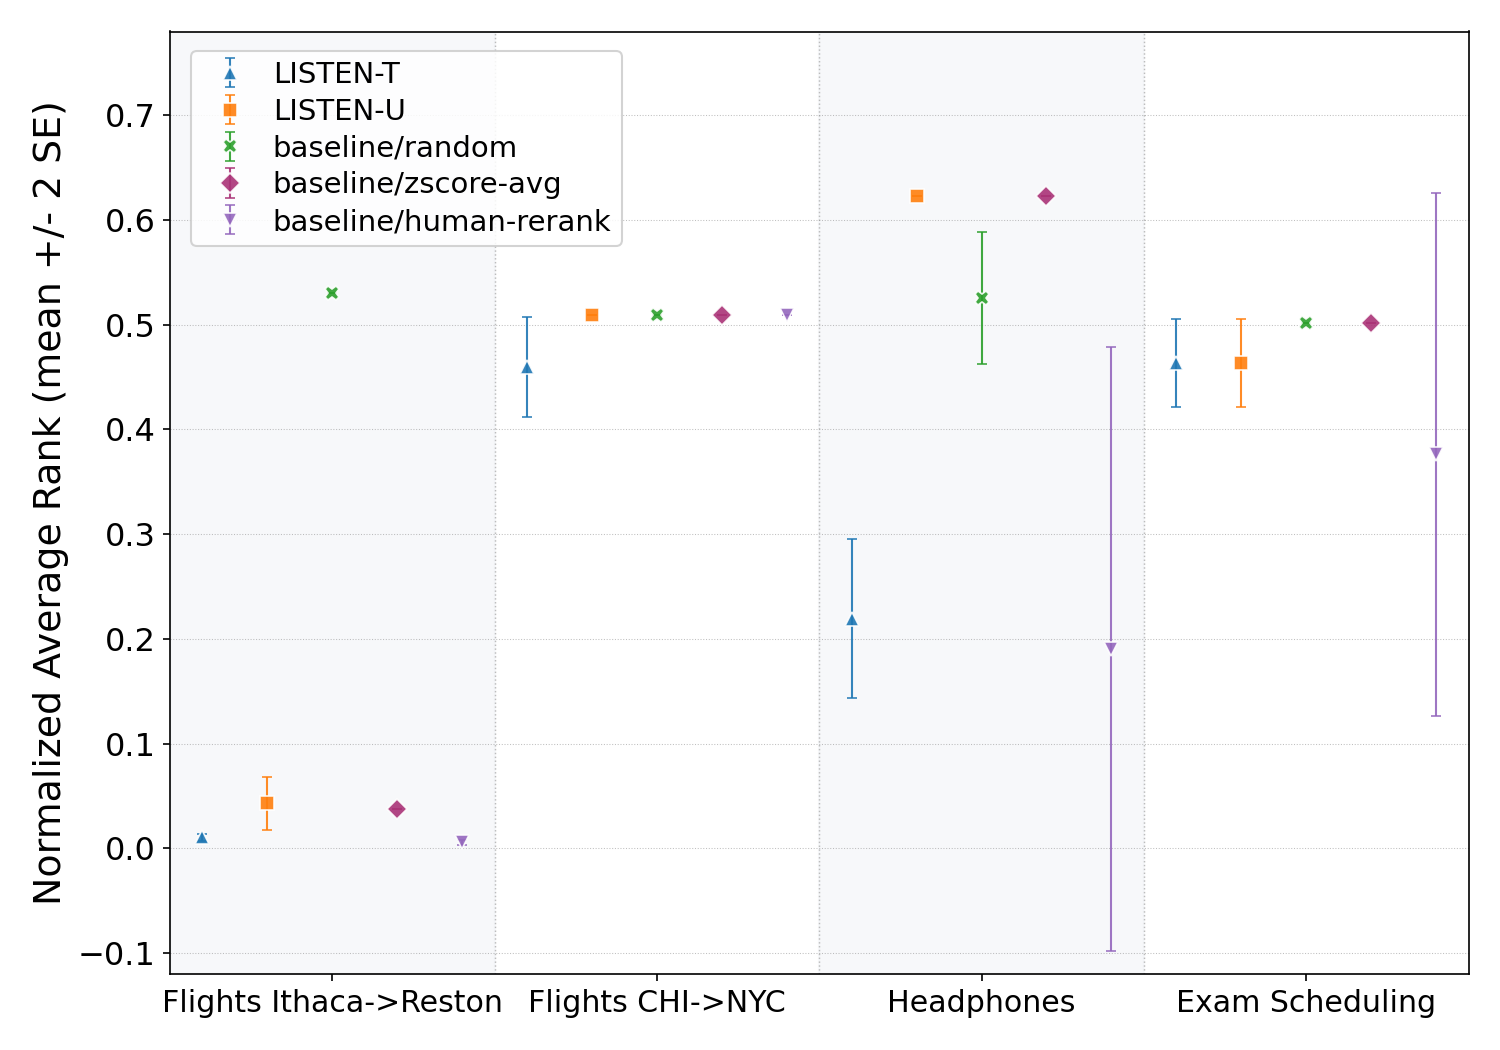
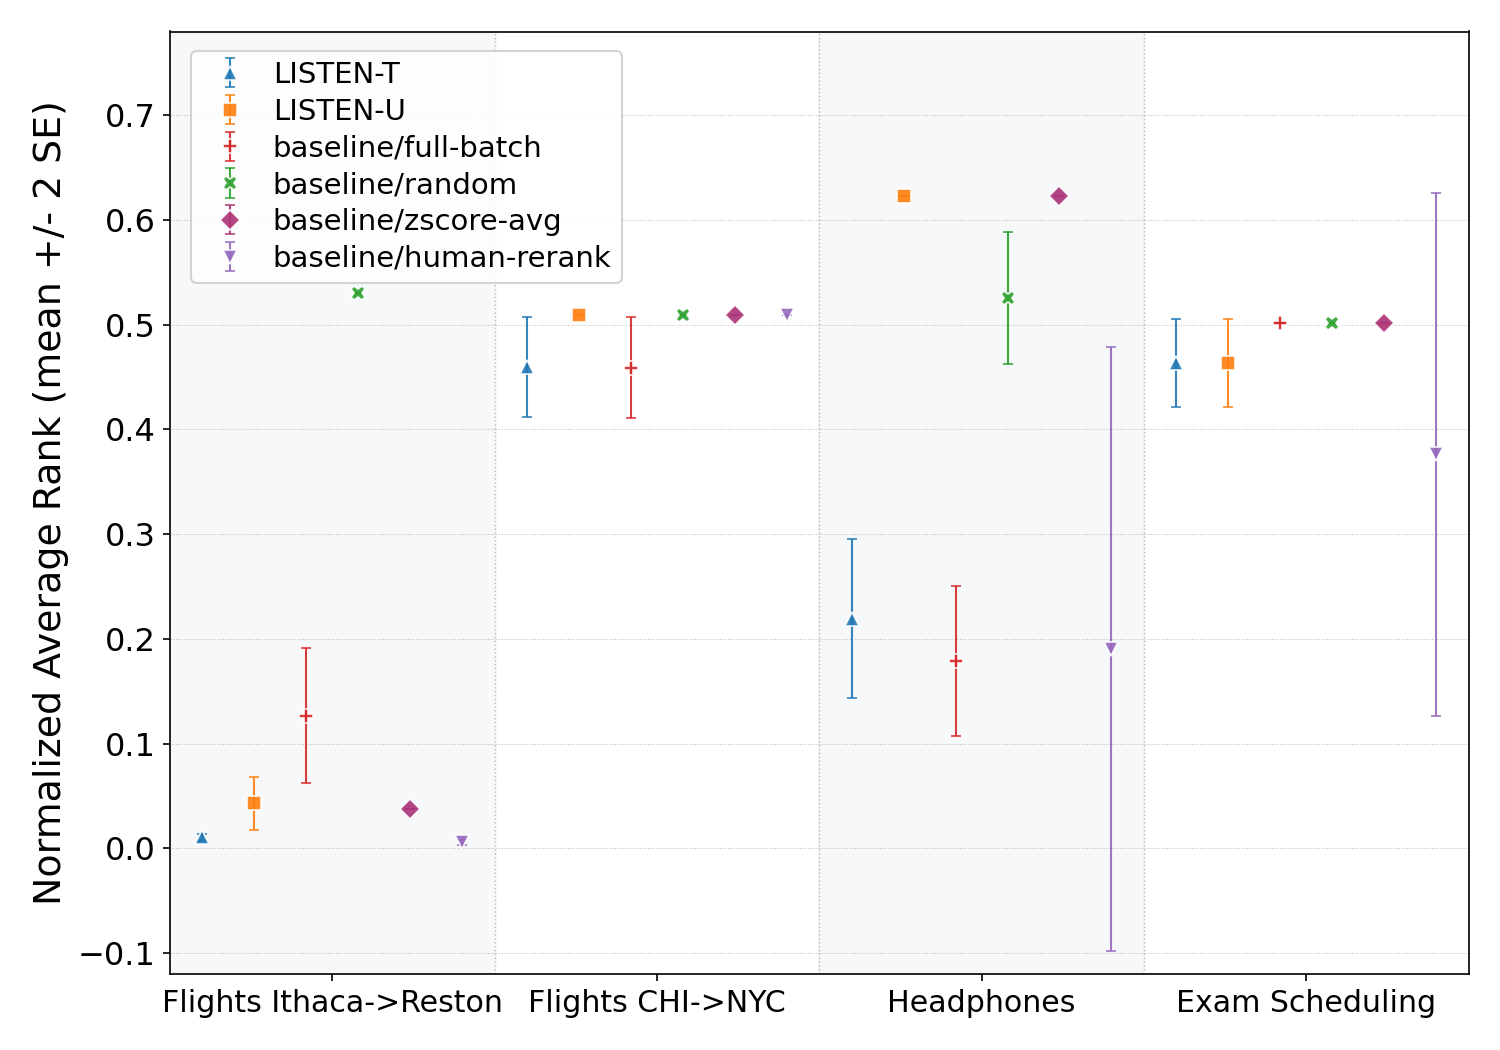
Default LISTEN-T at B=32 on headphones; exempt full_batch from order filter
- plot_orders_by_algo: full_batch passes through the section-order
  filter (it uses a single layout, so the gemini aggregate plot was
  silently dropping it). LISTEN-T and LISTEN-U still gated by
  --section-order persona,priorities,attributes.
- headphones_plot: default LISTEN-T batch size raised from 8 to 32 and
  the output filename now uses the actual batch size (was hardcoded
  batch8). arXiv_recreate.sh and IJCAI_recreate.sh now default
  HEADPHONES_BATCH_SIZE=32 to match.
- Regenerated affected plots/CSVs under outputs/plots/.

diff --git a/plotting/headphones_plot.py b/plotting/headphones_plot.py
@@ -134,10 +134,10 @@ def headphones_plot(args: argparse.Namespace):
             args_copy = copy(args)
             args_copy.mode = mode
             args_copy.algo = algo_name
-            # LISTEN-T: filter to batch size 8; LISTEN-U: no batch size filter
+            # LISTEN-T: filter to batch size 32 by default; LISTEN-U: no batch size filter
             if algo_name == "tournament":
                 if not args_copy.batch_size:
-                    args_copy.batch_size = 8
+                    args_copy.batch_size = 32
             else:
                 args_copy.batch_size = None
             args_copy.reps_cap = reps_cap
@@ -171,11 +171,12 @@ def headphones_plot(args: argparse.Namespace):
     plt.grid(True, axis="y", alpha=0.3)
     plt.legend(fontsize=19.6)
 
-    # Use args without algo/mode filter for output path; batch_size=8 always (LISTEN-T filter)
+    # Use args without algo/mode filter for output path; LISTEN-T batch_size
+    # falls back to 32 when the caller didn't pass one.
     args_no_algo = copy(args)
     args_no_algo.algo = None
     args_no_algo.mode = None if len(modes) > 1 else modes[0]
-    args_no_algo.batch_size = 8
+    args_no_algo.batch_size = args.batch_size or 32
     if getattr(args, "plot_dir", None):
         args_no_algo.output_dir = args.plot_dir
     out_path = build_output_path(args_no_algo, "norm-avg-rank-both")

diff --git a/plotting/plot_orders_by_algo.py b/plotting/plot_orders_by_algo.py
@@ -226,9 +226,11 @@ def collect_by_order(
         cfg = meta.get("config") or {}
         so = cfg.get("section_order")
         so_key: Tuple[str, ...] | None = tuple(so) if isinstance(so, list) else None
-        # Order filter applies only to prompt-aware algos. Baseline + rerank
-        # have no section_order and pass through unconditionally.
-        if so_filter_norm is not None and algo_name in ("tournament", "utility", "full_batch"):
+        # Order filter applies only to LISTEN-T and LISTEN-U. Baseline +
+        # rerank pass through unconditionally because they have no
+        # section_order. full_batch uses a single prompt layout, so its
+        # data is included regardless of the active filter.
+        if so_filter_norm is not None and algo_name in ("tournament", "utility"):
             if so_key is None or tuple(s.lower() for s in so_key) != so_filter_norm:
                 continue
         for col_id, c_scen, primary_mode, _disp in COLUMNS: